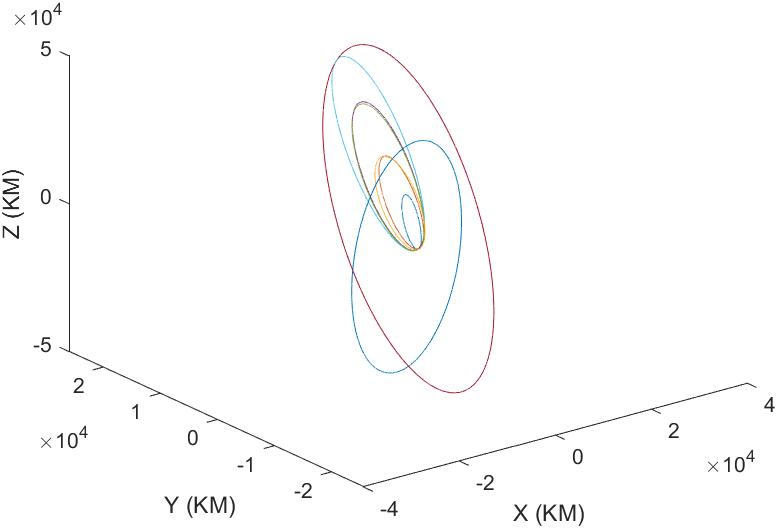
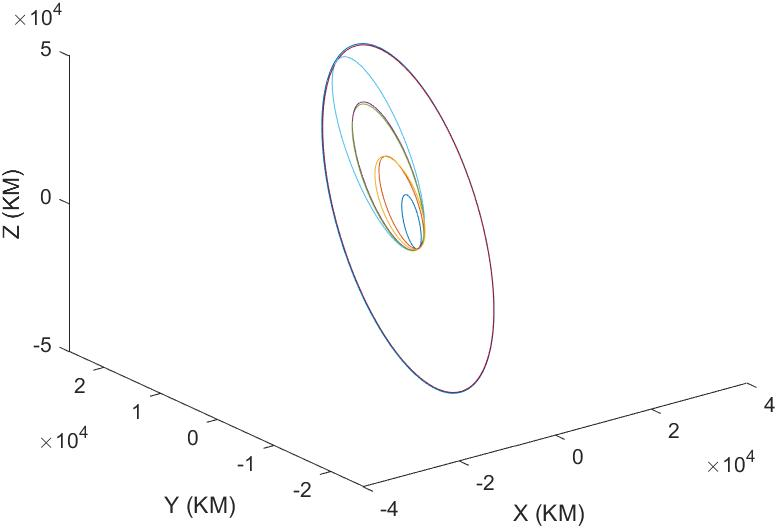
i think this is mostly final code more work may be needed

diff --git a/AERSP450Project2.m b/AERSP450Project2.m
@@ -38,8 +38,8 @@ c = - (p_1^2 / e_1^2 + beta^2 / gamma^2);
 
 
 %calculation of radius for orbits 1 and 2 using quadratic formula
-r_1 = (-b + sqrt(b^2 - 4*a*c)) / (2*a)
-r_2 = (-b - sqrt(b^2 - 4*a*c)) / (2*a)
+r_1 = (-b + sqrt(b^2 - 4*a*c)) / (2*a) ;
+r_2 = (-b - sqrt(b^2 - 4*a*c)) / (2*a) ;
 
 
 % calculation of true anaomaly at r - maybe need?
@@ -87,32 +87,70 @@ RSAT = zeros(3,3,3,l/3) ;
 V2SAT = zeros(3,3,l/3) ;
 ORBEL = zeros(3,6,l/3) ;
 for i = 1:l/3
-    [RSAT(:,:,:,i),V2SAT(:,:,i),ORBEL(:,:,i)] = gauss(TIMES((i*3-2:i*3)) ,RSITES((i*3-2:i*3),:) ,LOS((i*3-2:i*3),:),MU) ;
-    
+    [RSAT(:,:,:,i),V2SAT(:,:,i),ORBEL(:,:,i)] = gauss(TIMES((i*3-2:i*3)) ,RSITES((i*3-2:i*3),:) ,LOS((i*3-2:i*3),:),MU) ; 
 end 
 
+iters = 1000 ;
 init = zeros(1,6) ;
-f = figure ;
+RSAT_T = zeros(iters,6,l/3,3) ;
 for i = 1:l/3
-    for j = 1:3 
-        totalT = 2*pi*sqrt(ORBEL(i,1)^3/MU) ;
-        t = linspace(1,totalT,10000) ;
-        options = odeset('reltol',1e-12,'abstol',1e-12) ;
-        init((1:3)) = RSAT(2,:,:,i) ;
-        init((4:6)) = V2SAT(i,:) ;
-        [t,RSAT_T] = ode45( @(t,RSAT_T) TwoBP(t,RSAT_T,MU) , t , init, options) ;
-        
-        
-        subplot(1,1,1)
-        plot3(RSAT_T(:,1), RSAT_T(:,2), RSAT_T(:,3))
-        xlabel('X (KM)')
-        ylabel('Y (KM)')
-        zlabel('Z (KM)')
-        exportgraphics(f,['3D' '.jpg'])
-        hold on
+    for j = 1:3
+        if V2SAT(j,:,i) ~= [0 0 0]
+            totalT = 2*pi*sqrt(abs(ORBEL(j,1,i)^3)/MU) ;
+            t = linspace(1,totalT,iters) ;
+            options = odeset('reltol',1e-12,'abstol',1e-12) ;
+            init((1:3)) = RSAT(2,:,j,i) ;
+            init((4:6)) = V2SAT(j,:,i) ;
+            [t,RSAT_T(:,:,i,j)] = ode45( @(t,RSAT_T) TwoBP(t,RSAT_T,MU) , t , init, options) ;   
+        end
     end
 end
+
+% code for investing the orbits that have multiple r2 values
+for i = 7:l/3
+    f(i) = figure ;
+    xlabel('X (KM)')
+    ylabel('Y (KM)')
+    zlabel('Z (KM)')
+    for j = 1:3
+        if V2SAT(j,:,i-1) ~= [0 0 0]
+            subplot(1,1,1)
+            plot3(RSAT_T(:,1,i-1,j), RSAT_T(:,2,i-1,j), RSAT_T(:,3,i-1,j))
+            hold on
+        end
+        if V2SAT(j,:,i) ~= [0 0 0]
+            subplot(1,1,1)
+            plot3(RSAT_T(:,1,i,j), RSAT_T(:,2,i,j), RSAT_T(:,3,i,j))
+            hold on
+        end
+    end
+    hold off
+end
+
+exportgraphics(f(7),['r2Orbit7' '.jpg'])
+exportgraphics(f(8),['r2Orbit8' '.jpg'])
+
+f = figure ;
+subplot(1,1,1)
+for i = 1:l/3
+
+    xlabel('X (KM)')
+    ylabel('Y (KM)')
+    zlabel('Z (KM)')
+    j = 1 ;
+    if (i == 7)
+        j = 3 ;
+    elseif (i == 8)
+        j = 2 ;
+    end
+    
+    plot3(RSAT_T(:,1,i,j), RSAT_T(:,2,i,j), RSAT_T(:,3,i,j))
+    hold on
+end
 hold off
+exportgraphics(f,['3D' '.jpg'])
+
+
 
 function [Rsat,V2sat,OE] = gauss(time,R,L,mu)
     z1 = time(1) - time(2) ;
@@ -161,12 +199,12 @@ function [Rsat,V2sat,OE] = gauss(time,R,L,mu)
 
         Rsat(1,:,i) = R(1,:) + rho(1) * L(1,:) ;
         Rsat(2,:,i) = R(2,:) + rho(2) * L(2,:) ;
-        Rsat(3,:,i) = R(3,:) + rho(3) * L(3,:) 
+        Rsat(3,:,i) = R(3,:) + rho(3) * L(3,:) ;
         
-        V2sat(i,:) = gibbs(Rsat(:,:,i),mu) 
+        V2sat(i,:) = gibbs(Rsat(:,:,i),mu) ;
        
         [a,e,I,O,W,f] = RV2OE(Rsat(2,:,i),V2sat(i,:),mu) ;
-        OE(i,:) = [a,e,I,O,W,f] 
+        OE(i,:) = [a,e,I,O,W,f] ;
     end
 end
 
